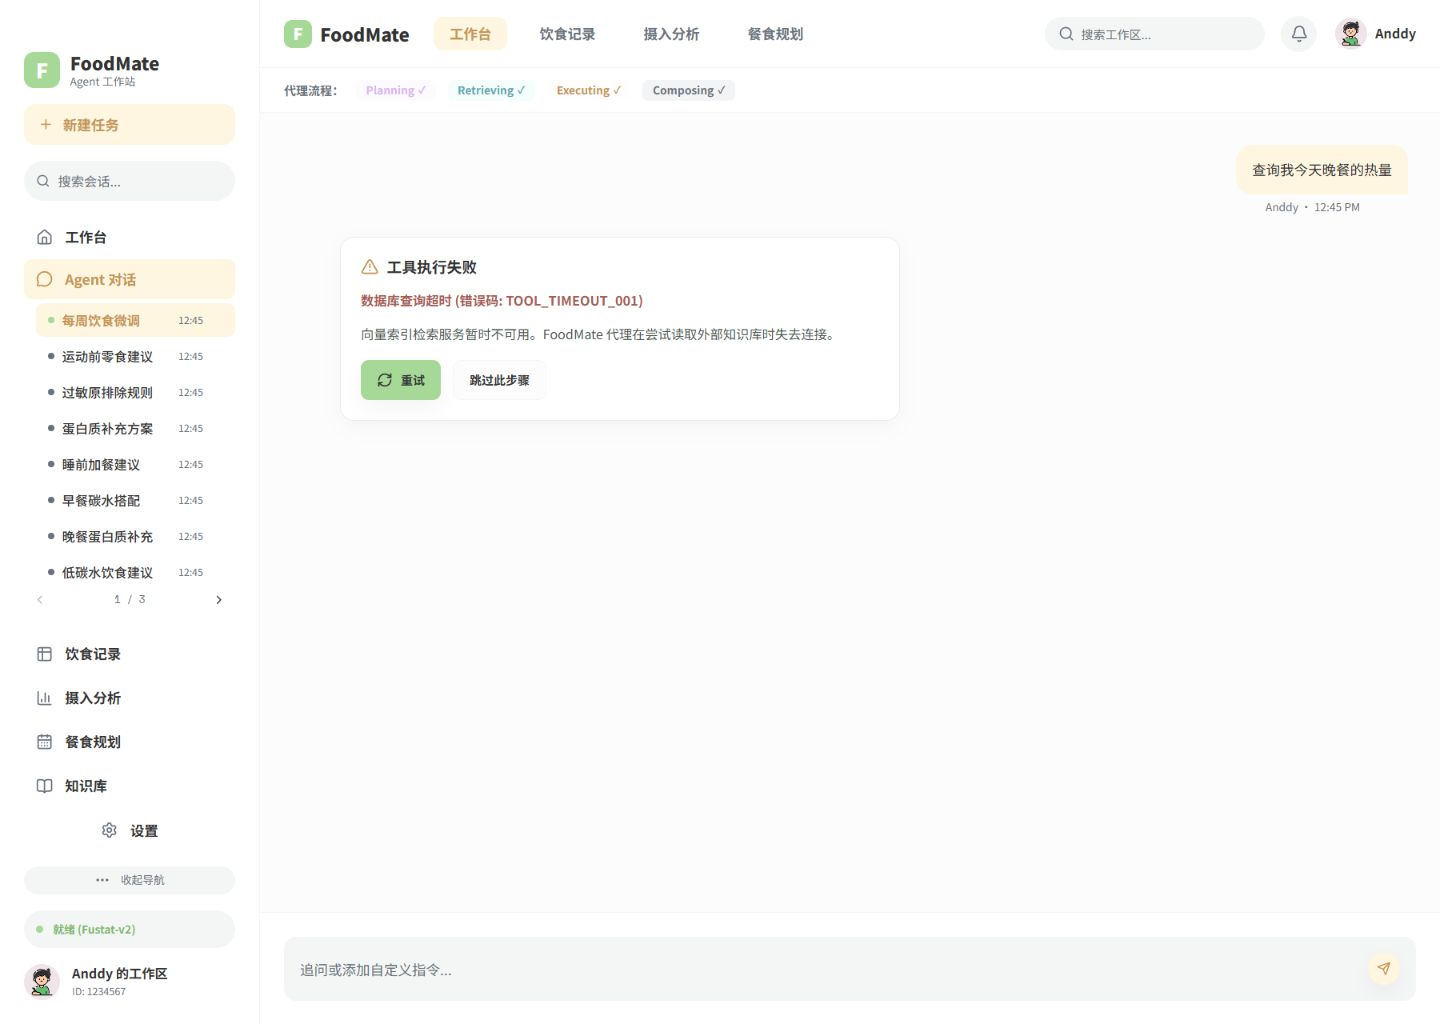
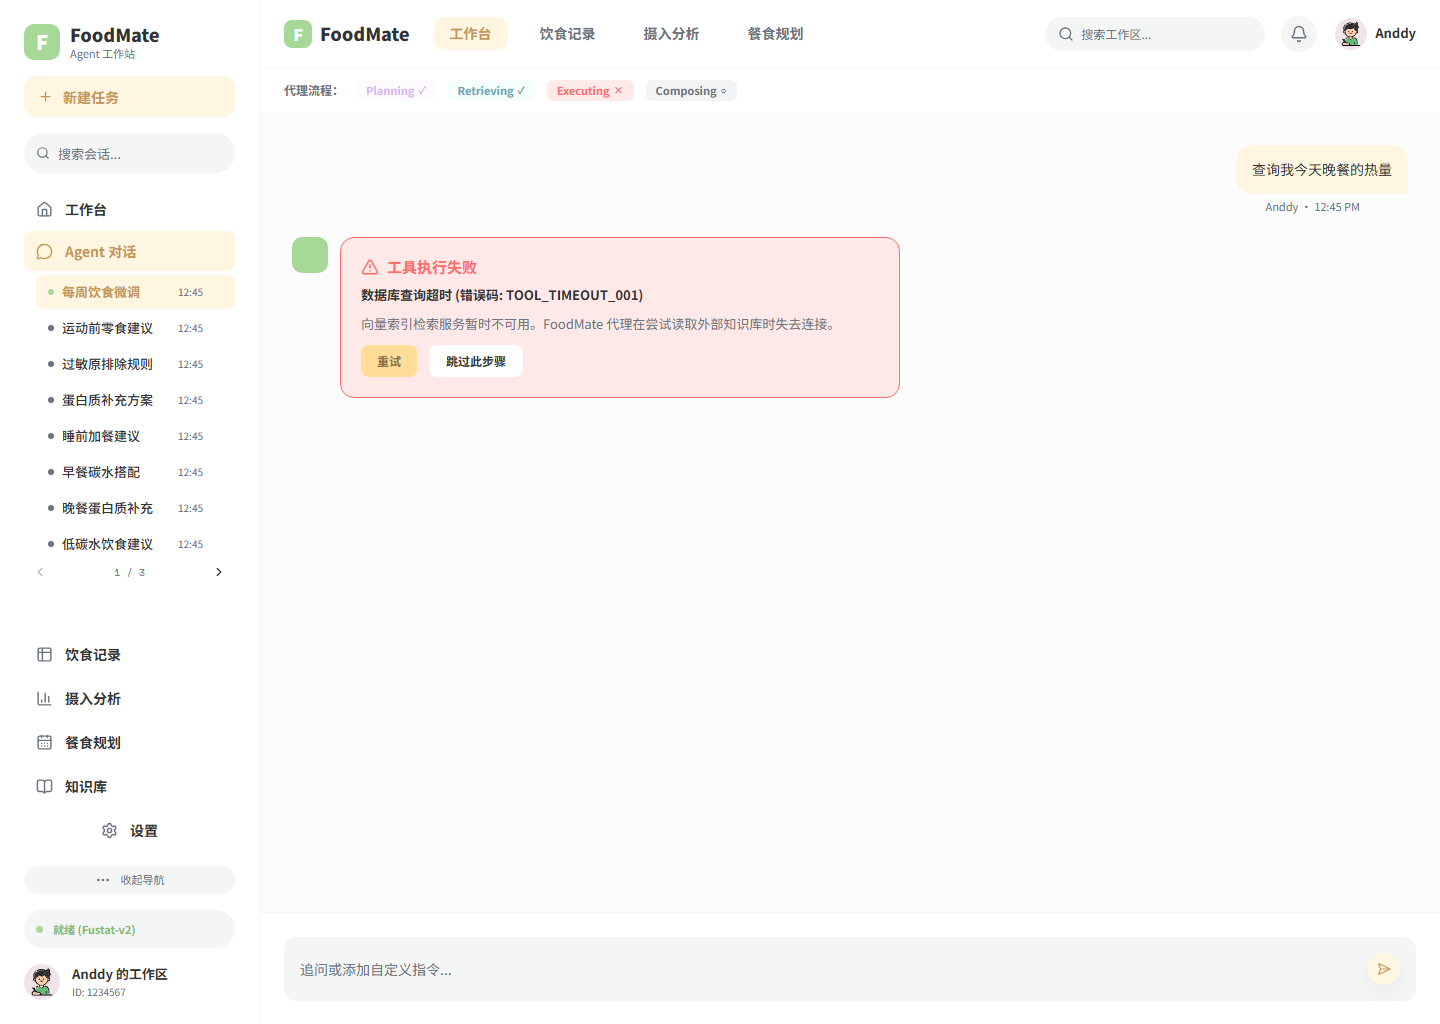
fix(代理状态): 对齐可重试工具失败视觉状态

diff --git a/foodmate-ui/src/pages/ChatPage/ChatPage.tsx b/foodmate-ui/src/pages/ChatPage/ChatPage.tsx
@@ -26,6 +26,7 @@ import { WorkspaceLayout } from '../../layouts/WorkspaceLayout/WorkspaceLayout';
 import { Composer } from '../../components/workspace/Composer';
 import { AgentStatusStrip } from '../../components/agent/AgentStatusStrip';
 import { CitationBlock } from '../../components/agent/CitationBlock';
+import { AgentFeedback } from '../../components/agent/AgentFeedback';
 import { ResultCard } from '../../components/agent/ResultCard';
 import { ClarificationCard } from '../../components/agent/ClarificationCard';
 import { ConfirmationCard } from '../../components/agent/ConfirmationCard';
@@ -52,6 +53,7 @@ type ChatMessage = {
   time: string;
   source?: string;
   wide?: boolean;
+  agentRunId?: string;
 };
 
 function displayRunStatus(status: string): AgentDisplayStatus {
@@ -249,7 +251,7 @@ function ChatSurface({
       <div className={`${styles.page} ${designChat ? styles.designChatPage : ''}`}>
         <section className={styles.workspace}>
           <div className={styles.center}>
-            <AgentStatusStrip status={run.status} preserveTones={designChat} />
+            <AgentStatusStrip status={run.status} failedStep={run.failedStep} preserveTones={designChat} />
             <div className={styles.messages} ref={messagesRef}>
               {children}
             </div>
@@ -689,6 +691,7 @@ function fixtureRun(state: AgentFixtureState): AgentRunView {
   return {
     id: `fixture_${state}`,
     status,
+    failedStep: state === 'tool-failed-retryable' ? 'executing_tools' : undefined,
     intent: state === 'write-confirmation' ? 'record' : state === 'budget-limit' ? 'analysis' : 'planning',
     toolsUsed: state === 'sse-reconnecting' ? 2 : state === 'tool-failed-retryable' ? 2 : 6,
     toolsTotal: 6,
@@ -1334,8 +1337,9 @@ function AgentStatePage({ state }: { state: AgentFixtureState }) {
     }
     if (state === 'tool-failed-retryable') {
       return (
-        <div className={styles.fixtureCardWrap}>
-          <Card className={styles.fixtureCard}>
+        <div className={styles.fixtureAssistantRow}>
+          <span className={styles.fixtureAgentAvatar} aria-hidden="true" />
+          <Card className={`${styles.fixtureCard} ${styles.fixtureFailureCard}`}>
             <div className={styles.fixtureStatusTitle}>
               <AlertTriangle aria-hidden="true" />
               <h2>工具执行失败</h2>
@@ -1345,11 +1349,15 @@ function AgentStatePage({ state }: { state: AgentFixtureState }) {
               向量索引检索服务暂时不可用。FoodMate 代理在尝试读取外部知识库时失去连接。
             </p>
             <div className={styles.fixtureActions}>
-              <Button disabled={action === 'pending'} onClick={() => void retryFailedTool()}>
-                <RefreshCw aria-hidden="true" />
+              <Button
+                className={styles.fixtureRetryButton}
+                disabled={action === 'pending'}
+                onClick={() => void retryFailedTool()}
+              >
                 重试
               </Button>
               <Button
+                className={styles.fixtureSkipButton}
                 disabled={action === 'pending'}
                 variant="outline"
                 onClick={() => report('skipped', '已跳过此步骤，后续结果会明确标注数据范围受限。')}
@@ -1501,6 +1509,7 @@ function RealChatPage() {
   const [citations, setCitations] = useState<AgentRunView['citations']>([]);
   const [runStatus, setRunStatus] = useState('idle');
   const [assistantText, setAssistantText] = useState('');
+  const [assistantMessageId, setAssistantMessageId] = useState<string>();
   const [error, setError] = useState<string>();
   const [budgetConfirmation, setBudgetConfirmation] = useState(false);
   const [checkpointAvailable, setCheckpointAvailable] = useState(false);
@@ -1513,6 +1522,7 @@ function RealChatPage() {
     setActiveRunId(undefined);
     setRunStatus('idle');
     setAssistantText('');
+    setAssistantMessageId(undefined);
     setBudgetConfirmation(false);
     setCheckpointAvailable(false);
     setConnection({ state: 'closed', attempt: 0, maxAttempts: 5 });
@@ -1557,6 +1567,14 @@ function RealChatPage() {
           setRunStatus('completed');
           setCheckpointAvailable(false);
           setAssistantText((current) => payload.answer ?? current);
+          if (sessionId) {
+            void loadSessionMessages(sessionId).then((rows) => {
+              const assistant = rows.find(
+                (message) => message.agent_run_id === activeRunId && message.role === 'assistant',
+              );
+              setAssistantMessageId(assistant?.message_id);
+            });
+          }
           setCitations(
             (payload.citations ?? []).map((citation) => ({
               id: citation.citation_id,
@@ -1612,7 +1630,7 @@ function RealChatPage() {
       stream.close();
       streamRef.current = undefined;
     };
-  }, [activeRunId]);
+  }, [activeRunId, sessionId]);
 
   const send = async () => {
     const content = input.trim();
@@ -1658,6 +1676,7 @@ function RealChatPage() {
     content: message.content,
     time: message.created_at,
     source: undefined,
+    agentRunId: message.agent_run_id,
   }));
 
   return (
@@ -1703,10 +1722,26 @@ function RealChatPage() {
         </div>
       ) : null}
       {mappedMessages.map((message) => (
-        <MessageBubble key={message.id} message={message} />
+        <MessageBubble key={message.id} message={message}>
+          {message.role === 'assistant' && message.agentRunId ? (
+            <AgentFeedback runId={message.agentRunId} messageId={message.id} />
+          ) : null}
+        </MessageBubble>
       ))}
       {assistantText ? (
-        <MessageBubble message={{ id: 'assistant-stream', role: 'assistant', content: assistantText, time: '12:46' }} />
+        <MessageBubble
+          message={{
+            id: 'assistant-stream',
+            role: 'assistant',
+            content: assistantText,
+            time: '12:46',
+            agentRunId: activeRunId,
+          }}
+        >
+          {assistantMessageId && activeRunId ? (
+            <AgentFeedback runId={activeRunId} messageId={assistantMessageId} />
+          ) : null}
+        </MessageBubble>
       ) : null}
       {checkpointAvailable && activeRunId ? (
         <div className={styles.cardWrap}>

diff --git a/foodmate-ui/src/components/agent/AgentStatusStrip.tsx b/foodmate-ui/src/components/agent/AgentStatusStrip.tsx
@@ -25,25 +25,32 @@ const statusIndex: Record<AgentDisplayStatus, number> = {
 type AgentStatusStripProps = {
   status: AgentDisplayStatus;
   preserveTones?: boolean;
+  failedStep?: AgentDisplayStatus;
 };
 
-export function AgentStatusStrip({ status, preserveTones = false }: AgentStatusStripProps) {
+export function AgentStatusStrip({ status, preserveTones = false, failedStep }: AgentStatusStripProps) {
   const currentIndex = statusIndex[status];
+  const failedIndex = failedStep ? statusIndex[failedStep] : -1;
   return (
     <section className={styles.strip} aria-label="Agent 运行状态">
       <strong className={styles.label}>代理流程：</strong>
       <div className={styles.steps} role="list">
         {steps.map((step, index) => {
-          const completed = currentIndex > index || status === 'completed';
-          const active = currentIndex === index && !completed;
+          const failed = status === 'failed' && failedIndex === index;
+          const completed = failed
+            ? false
+            : failedIndex >= 0
+              ? index < failedIndex
+              : currentIndex > index || status === 'completed';
+          const active = !failed && currentIndex === index && !completed;
           return (
             <span
-              className={`${styles.step} ${styles[step.tone]} ${completed && !preserveTones ? styles.completed : ''} ${active ? styles.active : ''}`}
+              className={`${styles.step} ${styles[step.tone]} ${completed && !preserveTones ? styles.completed : ''} ${active ? styles.active : ''} ${failed ? styles.failed : ''}`}
               key={step.key}
               role="listitem"
             >
               {step.label}
-              <small aria-hidden="true">{completed ? '✓' : active ? '●' : '○'}</small>
+              <small aria-hidden="true">{failed ? '×' : completed ? '✓' : active ? '●' : '○'}</small>
             </span>
           );
         })}

diff --git a/foodmate-ui/src/pages/ChatPage/ChatPage.module.css b/foodmate-ui/src/pages/ChatPage/ChatPage.module.css
@@ -1185,6 +1185,27 @@
   margin-left: 48px;
 }
 
+.fixtureAssistantRow {
+  display: flex;
+  width: min(608px, 100%);
+  align-items: flex-start;
+  gap: 12px;
+}
+
+.fixtureAgentAvatar {
+  display: block;
+  width: 36px;
+  height: 36px;
+  flex: 0 0 auto;
+  border-radius: 10px;
+  background: #a6d997;
+}
+
+.fixtureAssistantRow .fixtureCard {
+  min-width: 0;
+  flex: 1 1 auto;
+}
+
 .fixtureCard {
   display: flex;
   min-width: 0;
@@ -1195,6 +1216,55 @@
   border-radius: 14px;
   background: #fff;
   box-shadow: 0 6px 20px rgb(51 51 51 / 4%);
+}
+
+.fixtureFailureCard {
+  gap: 11px;
+  border-color: #ff6b68;
+  background: #fee8e8;
+  box-shadow: none;
+}
+
+.fixtureFailureCard .fixtureStatusTitle svg {
+  color: #ff6b68;
+}
+
+.fixtureFailureCard .fixtureStatusTitle h2,
+.fixtureFailureCard .fixtureErrorTitle {
+  color: #ff6b68;
+}
+
+.fixtureFailureCard .fixtureErrorTitle {
+  color: #333;
+}
+
+.fixtureFailureCard .fixtureParagraph {
+  color: #6b7280;
+}
+
+.fixtureFailureCard .fixtureActions button {
+  height: 32px;
+  min-height: 32px;
+  border-radius: 8px;
+  padding: 0 16px;
+  font-size: 12px;
+}
+
+.fixtureFailureCard .fixtureRetryButton {
+  border: 0;
+  background: #ffdc97;
+  color: #876e45;
+  box-shadow: none;
+}
+
+.fixtureFailureCard .fixtureRetryButton:hover {
+  background: #f5cf87;
+}
+
+.fixtureFailureCard .fixtureSkipButton {
+  border-color: transparent;
+  background: #fff;
+  color: #333;
 }
 
 .fixtureCard h2,
@@ -1480,6 +1550,7 @@
 
 @media (max-width: 720px) {
   .fixtureCardWrap,
+  .fixtureAssistantRow,
   .fixtureCancelledWrap,
   .fixtureReconnectWrap,
   .fixtureActionMessage,

diff --git a/foodmate-ui/src/pages/ChatPage/ChatPage.test.tsx b/foodmate-ui/src/pages/ChatPage/ChatPage.test.tsx
@@ -230,6 +230,9 @@ describe('ChatPage Agent remaining states', () => {
     renderState('tool-failed-retryable');
     expect(screen.getByText('数据库查询超时 (错误码: TOOL_TIMEOUT_001)')).toBeInTheDocument();
     expect(screen.getByRole('button', { name: '重试' })).toBeInTheDocument();
+    expect(document.querySelector('[class*="fixtureAgentAvatar"]')).toBeInTheDocument();
+    expect(screen.getAllByRole('listitem').map((item) => item.textContent)).toContain('Executing×');
+    expect(screen.getAllByRole('listitem').map((item) => item.textContent)).toContain('Composing○');
     fireEvent.click(screen.getByRole('button', { name: '跳过此步骤' }));
     expect(screen.getByRole('status')).toHaveTextContent('后续结果会明确标注数据范围受限');
   });

diff --git a/foodmate-ui/src/types/agent.ts b/foodmate-ui/src/types/agent.ts
@@ -45,6 +45,7 @@ export type Citation = {
 export type AgentRunView = {
   id: string;
   status: AgentDisplayStatus;
+  failedStep?: AgentDisplayStatus;
   intent: 'calculation' | 'record' | 'analysis' | 'planning' | 'knowledge_qna';
   toolsUsed: number;
   toolsTotal: number;

diff --git a/foodmate-ui/src/components/agent/AgentStatusStrip.module.css b/foodmate-ui/src/components/agent/AgentStatusStrip.module.css
@@ -73,6 +73,11 @@
   color: var(--fm-green-dark);
 }
 
+.failed {
+  background: rgba(255, 107, 104, 0.14);
+  color: #ff6b68;
+}
+
 @media (max-width: 720px) {
   .strip {
     gap: 8px;
